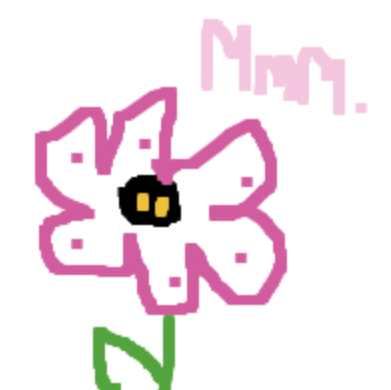
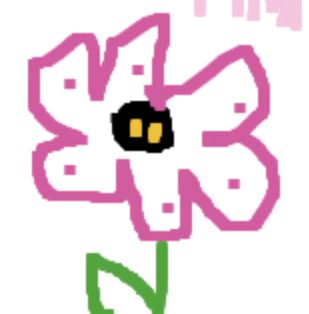
skhud

diff --git a/src/routes/+page.svelte b/src/routes/+page.svelte
@@ -1,6 +1,6 @@
 <div>
     <h1>
-        <q style='font-size: 3rem;'>Ultimately, it is the desire, not the desired, that we love.</q>
+        <q style='font-size: 2rem;'>Ultimately, it is the desire, not the desired, that we love.</q>
     </h1>
     <p>Friedrich Nietzsche</p>
     <form action="/writing">
@@ -9,28 +9,28 @@
 </div>
 <hr style='border: none;'>
 <div style='text-align: center;'>
-    <img src='img/teton_river.jpg' style='height: 12rem;' class='rotate' alt='teton river'>
-    <img src='img/first_concert.png' style='height: 12rem;' class='rotate' alt='first concert'>
-    <img src='img/nature.jpeg' style='height: 12rem;' class='rotate' alt='nature'>
-    <img src='img/childhood_spirit.jpg' style='height: 12rem;' class='rotate' alt='childhood spirit'>
+    <img src='img/first_concert.png' style='height: 12rem;' class='rotate' alt='first concert, grade 5'>
+    <img src='img/mmm.png' style='height: 12rem;' class='rotate' alt='pink flower'>            
 </div>
 <br>
 <div>
     <h2>Who is Amanda Ernar?</h2>
-    <p>Ernar is an author, wordsmith, musician, and a self-proclaimed artist. She has self-published two children's books as of 2023.</p>
+    <p>Ernar is a writer that has self-published two books as of 2023. She also practices Brazilian Jiu-Jitsu. She likes telling people she has good taste in everything.</p>
     <ul>
-        <p>Other random accomplishments:</p>
+        <p>Other accomplishments:</p>
         <li>
-            &rarr; 2018 Los Angeles County Spelling Bee Finalist
+            &rarr; Played 2nd clarinet for the 2023 NafME All-Northwest Band
+        </li>
+        <li>
+            &rarr; "Imagination Begins With You..." Writing competition finalist
+        </li>
+        <li>
+            &rarr; 2018 Los Angeles County Regional Spelling Bee Finalist
         </li>
         <li>&rarr; Beta reader for <a href='https://www.goodreads.com/en/book/show/62210574'>Nightshade Academy</a></li>    
         <li>
             &rarr; 3rd place at 1st Annual Ririe Rumble
         </li>
-        <li>
-            &rarr; Member of 2023 NafME All-Northwest Honor Ensemble
-        </li>
-        
     </ul>
 </div>
 <div>

diff --git a/src/routes/+error.svelte b/src/routes/+error.svelte
@@ -5,4 +5,3 @@
 <h1>{$page.status}: {$page.error.message}</h1>
 <a href='/'>Return to home</a>
 <hr style='border: none;'>
-<img src='img/hegel.jpeg' style='height: 500px;' alt='hegel'>

diff --git a/src/routes/writing/jasmine.md b/src/routes/writing/jasmine.md
@@ -4,70 +4,81 @@ date: 2/28/23
 
 ---
 
-“It’s always cruel, when someone you love becomes not but a memory,” whispers the skinny, gray-haired woman sitting by me. She’s talking to her husband, male friend, something of the sort. I’m blearily picking up fragments of their conversation. She’s wearing an expensive, ruddy cocktail dress, I notice, reminding myself of my burning hatred for jazz.
+I’ve always hated jazz.
 
-I happen to own the jazz bar we’re in, situated in the dead of Chicago, several blocks down from the pier. It isn’t well-known or anything. Sleepless and bored, I walk in at around midnight. Something new seems to transpire there each evening.
+I happen to own the jazz bar we’re sitting in. It’s situated in the dead of Chicago, several blocks down from the pier. Up for a couple aimless conversations, I wander in at around midnight.
 
-My head hangs over a pallid countertop as headache-inducing lights flash in the background. I realize it’s getting late, gazing sleepily out the only window in the room. There aren’t any stars tonight, just clouds. Exhaust weaving the city and the sky together.
+The pianist up front is a skinny, long-fingered man whose head sways as his bony hands batter the piano. The audience seems to be enjoying it. I clench my jaw as the music shifts dizzyingly from time signature to time signature, blotching the bar’s ambiance with awkward notes and chords. Afterward, his bow is followed by a round of eager, rattling applause. I remind myself that it’s alright for people to have preferences in music. But in all honesty, I hate everyone that’s ever performed here—and what I do for a living.
 
-The pianist up front is a skinny, long-fingered man battering the piano with his hands, his head bobbing with the inept music. The audience seems to be enjoying it. Afterward, his bow is followed by a round of eager, rattling applause.
+My head hangs over a pallid tabletop as headache-inducing lights flash in the background. I realize it’s getting late, gazing out the only window in the room. There aren’t any stars tonight, just clouds. Exhaust weaving the city and the sky together.
 
-My eyes shut as I try to remember a time before I joined my family in Chicago, back when I was studying to become a world-renowned piano soloist, performing the works of Scriabin and Chopin at concert halls jeweling Europe. Australia. Asia.
+I try to remember a time before I joined my family in Chicago, back when I was studying to become a soloist, dreaming of performing Scriabin and Chopin at concert halls throughout Europe and Asia. I wanted to make something of myself then. I had something to prove.
 
-Of course, as do countless other dreams, everything fell apart.
+It was stupid, really. As do countless other dreams, it all eventually fell apart.
 
-I let my thoughts drift and marinate in the scenery—the queer murmuring of voices, the clinking of glasses, the obnoxious, airy trills and peeps of a clarinet.
+I close my eyes. The scenery quickly engulfs my thoughts—the ghostly clattering of voices, the clinking of glasses, the obnoxious trills and peeps of a clarinet.
 
 -
 
 Suddenly I find I’m in New York, a city that never seems to stop and catch its breath. How old am I—sixteen? Seventeen?
 
-The streets are noisy as per usual. A siren wails somewhere in the distance. The dizzying structures surrounding me are snake-scale beneath the dying sunlight. The sky bleeds a deep violet, the color of a bruise. Strangers don’t seem to take much notice as I shove past. My designer shoes beat against the greasy streets and my necktie flails behind me as I run. I’m leaving my grief counseling session in a hurry, realizing I have to rehearse for an upcoming performance.
+The streets are turbulent as per usual. The sky bleeds a deep violet, the color of a bruise. A siren wails somewhere yonder. The illusion-like structures surrounding me are snake-scale beneath the dying sunlight.
 
-I round a filthy street corner and stumble into a hallway saturated with an odd, expensive scent. There are no photographs or adornments on the walls. Weber Conservatory, reads the letters painted on the textured walls in an ugly bubble font. It’s six in the evening, and I haven’t eaten since yesterday. My stomach burns.
+Strangers don’t seem to take much notice as I shove past. My designer shoes snap against the oily streets and my necktie flails behind me as I run. I’m leaving my grief counseling session in a hurry, realizing I have to rehearse for an upcoming performance.
 
-I can hear Beethoven’s *Archduke* murmuring behind the doors ahead, though it sounds funny; the pianist happens to be a little behind schedule.
+I’m rounding a filthy street corner, stumbling into a hallway saturated with a strange musky scent. Weber Conservatory, reads the letters painted on the textured walls in an ugly bubble font. It’s six in the evening, and I haven’t eaten since yesterday—my stomach burns.
 
-A girl stands at the auditorium doors, checking the time on her watch. She’s wearing plain, expensive clothing, like a kid dressing to impress the grown-ups. Her fingernails are unkempt from biting. Her makeup looks like it’s been done by a child. Though she’s tall and pale, her loveliness drifting to the other end of the hall. She lifts her chin to face me, beaming. 
+I can hear Beethoven’s Archduke murmuring behind the doors ahead, though it sounds funny; the pianist isn’t there and happens to be a little behind schedule.
+
+A girl stands to block the auditorium doors, checking the time on her watch. She’s wearing plain, expensive clothing, like a kid dressing to impress the grown-ups. Her fingernails are unkempt from biting. Her makeup looks like it’s been done by a child. Though she’s tall and pale, her loveliness drifting to the other end of the hall. She lifts her chin to meet my gaze, beaming. 
 
 “Late for rehearsal?” She has a sleepy, raspy voice.
 
 “Well, yeah, so if you could—”
 
-“We should leave.”
-
-There seems to be something wrong with her. “What’re you talking about? I can’t just leave.”
+“We should leave,” she interrupts, making me falter. There seems to be something wrong with her. “What are you talking about? I can’t just leave.”
 
 “And we were both thinking of shooting the other guy a text and leaving just now. He probably already thinks we aren’t coming.”
 
-I think about the consequences of leaving for a moment.
+I rethink the consequences of leaving for a moment.
 
 -
 
-We half-wittedly leave the building and have a cab take us to the beach. I don’t know why I listen. “Fire Island,” she says to the driver.
+Senseless, we leave the building and have a cab take us to the beach. I don’t know why I listen.
 
-When we arrive, there seems to be nothing but us and the cold, empty night, our exposed skin burning with the dry tang of the Atlantic air. The lamplights set our faces aglow with scarlet and turn my smile a quaint, porcelain shade of amber.
+“Fire Island,” she says to the driver.
 
-We sit down, laughing under our breaths for no reason. We speak about our lives before Weber, embarrassing moments from our childhood, staring into the sky—a creamy cobalt. The ocean lurks ahead, various artificial lights misting its waters, its waves smashing against the searocks.
+-
 
-My hand gathers a fistful of sand. “Would you call yourself a believer in fate?” She asks. Her voice buzzes and repeats in my head, making the stars blink and buildings behind us tremble. I close my eyes, trying to think of an answer.
+We eventually arrive, and there seems to be nothing but us and the cold, empty night, our exposed skin burning with the dry tang of the Atlantic air. The lamplights set our faces aglow with scarlet and turn my smile a quaint, porcelain shade of amber.
 
-“No, not really,” I reply. “I believe in coincidences, though.”
+We sit down, laughing under our breaths for no reason. We awkwardly clamor about our lives before Weber, embarrassing moments from our childhood, staring into the sky—a creamy cobalt. The ocean lurks ahead, various artificial lights misting its waters, its waves smashing against the black searocks.
 
-She tilts her head to the side, grinning. “What do you mean?”
+My hand gathers a fistful of sand. “Would you call yourself a believer in fate?” She asks. Her voice buzzes and repeats in my head, making the stars blink and buildings behind us tremble. I scrunch my nose, trying to think of an answer.
 
-There’s something strange about her, as haunting as she already is. I remind myself I don’t even know her name. “Tell me your name first,” I swallow, watching her features shift beneath the lights. It’s like she’s a mirage, a memory.
+“No,” I reply. “I believe in coincidences, though.”
+
+She tilts her head to the side. “What do you mean?”
+
+There’s something strange about her, as haunting as she already is. I remind myself I don’t even know her name. “Tell me your name first,” I swallow, watching her features shift beneath the lights. It’s like she’s a mirage—a memory.
 
 “Jasmine.”
 
-Jasmine. “Funny. I used to know someone with that name,” I remember. “Well, I just don’t think it’s right to assume everything’s been preordained by god or something. It makes life a lot more bearable, to think that it’s all spontaneous and doesn’t happen for some sick reason.” A sheepish smile creeps across my face. “I don’t know. What about you?”
+Jasmine. “Funny. I used to know someone with that name,” I remember. “Well, I just don’t think it’s right to assume everything’s been preordained by the almighty. It makes life a lot more bearable, to think that it’s all spontaneous and doesn’t happen for some sick reason.” A sheepish smile creeps across my face. I turn away.
+
+“I don’t know. What about you?”
 
 I don’t get a response.
 
-The night feels a little emptier. I relax my hand, and the sand from within comes spilling out. Perhaps I shouldn’t have left that counseling session on such short notice, I think with a sigh. I can’t help but wonder what could have been if Jasmine were really sitting beside me, laughing at the constellations spinning with contempt above our heads.
+The night feels a little emptier. I look back over my shoulder and she isn’t there. My chest sinks.
+
+I relax my hand and the sand from within comes spilling out. Avoiding that counseling session had been a bad idea. 
+
+I can’t help but wonder what could have been if she were really beside me, laughing at the stars spinning with contempt above our heads.
 
 -
 
-My eyes close, and I can hear us performing Beethoven’s *Archduke*. It’s almost mournful behind its grinning chords. It sings of something strange. Of joy before the gloom of realization.
-The cool studio lights wane and quiver atop the piano’s scratched black surface. My fingers dance over the keys, slowing and quickening at the glances of the others. I look over my shoulder and smile at her. Jasmine smiles back.
+My eyes close, and I can hear us performing Beethoven’s Archduke. It’s almost mournful behind its grinning chords. It hums with something strange. Of joy before the gloom of realization.
+
+The cool studio lights wane and quiver atop the piano’s scratched black surface. My fingers dance over the keys, slowing and quickening with her every glance. I look over my shoulder and smile at her. Jasmine smiles back.
 

diff --git a/src/routes/writing/dylan.md b/src/routes/writing/dylan.md
@@ -4,29 +4,15 @@ date: 2/4/2022
 
 ---
 
-The day was nearing its end. He watched as the sun’s scarlet rays brushed over the boundless pasture and blanketed the sky, glancing up at the fleeting scarlet above, which was dappled with stars and splashed with various blushing hues, inhaling the sweet scent of wild honeysuckles and white lilies. He came to visit this relatively well-formed part of town every other week, when given the time. “Beautiful day,” he grumbled to himself, pulling in a breath from his hazing cigar. He glanced at his watch and mumbled a curse, for it was almost four, and he had to be back at camp by then.
+The day was nearing its end. He watched as the sun’s scarlet rays touched over the boundless pasture and blanketed the fleeting scarlet above---dappled with stars and splashed with various blushing hues, inhaling the sweet scent of wildflowers. He came to visit this relatively well-formed part of town every other week, when given the time. 
 
-Dylan was only sixteen, which further proved how desperate the nation was for men. And women.
+“Beautiful day,” he grumbled, drawing in a breath from his cigar. He glanced at his watch and mumbled a curse, for it was almost four, and he had to be back at camp by then.
 
-It had been several years since he began fighting in the fifty years' war, and those years had felt like an eternity to Dylan. He had spent his first hundred nights as a soldier counting the stars and reminiscing about his life before the draft. He had something to live for back then: his past, which now seemed vague and was slowly chipping away from his memory.
+It had been several years since he began fighting in the fifty years' war, and those years had felt like an eternity to Dylan. He had spent his first hundred nights as a soldier counting the stars and reminiscing about his life before the draft. He had something to live for back then...or did he? It was whatever had occurred in the past, which now seemed vague and was slowly beginning to chip away from his memory.
 
 Dylan used the spare time he had to smoke. Out in the wilderness, somewhere far and distant from whichever fort the others were occupying, in case a brushfire was to start.
 
 On the battlefield, it seemed everyone's deaths were petty and absurd. They died like dazed bugs being crushed under someone's foot, as they were quickly shot to death, without a chance to even think. Dylan knew the battle scene all too well. He pressed his cigar into his lips, watching the distant sparks of soldiers' hazing campfires from afar.
 
 It was as if everyone's livelihoods and deaths were mere leaves floating down a vast river. But where would that river lead? Would it lead to them winning the war?
-
-"Finally found you, birthday boy." Dylan looked up to see the cheery face of his friend, Chris, hovering above him. Dylan's features tensed. Right, August happened to be coming to an end. Yet, partying with everyone else seemed to be among the last things he wanted to do. The others were probably drunk and woozy. Dylan knew they were celebrating the successful capture of Fort Winde after an embarrassing three months' siege. "C'mon, Ree, it's not like that Alis Hovey's gonna eat you," Chris jeered.
-
-Dylan pressed his lips together. A few campfire stories and a couple of drinks wouldn't hurt, he supposed. Sighing, he stood and brushed himself off, leaving an imprint in the patch of the tall grain beneath him, and tossed his dead cig aside.
-
-Chris led him down a rugged flagstone path that led the pair down to Fort Winde, which was crowded to death with people. Everywhere Dylan looked, soldiers gambled, wrestled, and laughed in a ditzy haze of drunk lunacy. “I’ll be right back!” Chris leered, gesturing a small apology and walking off. Dylan sat down on a plump duffel bag and poured himself a glass of rye. He hated this place. He glanced around, trying to spot Chris somewhere amidst the mass of people before him, but that idiot was nowhere to be found. All the commotion must have sent him rushing off in a whirl of affable remarks and vivacious flattery. Dylan cringed.
-
-A group of officials sat down next to him. "There's this woman back in West Eden," one began, drumming his fingers on the rim of his glass, "she's into reading old, musty, coffee-stained *books* that aren't even good. Real pretty, though." He took a generous sip from his glass and drew a box of cigars from his back pocket while the others started to murmur amongst themselves about their own, equally-miserable lives. Dylan pretended not to notice. The man who sat beside him cleared his throat and leaned back in his seat. “Like hell I’ll live to see the end of this war,” he sneered. He glanced over his shoulder anxiously. Dylan found himself hoping no one heard him.
-
-"And what would your name be, kid?" A man who appeared to belong to their circle asked, biting down on the tip of his cigar. Dylan looked up at him and laughed.
-
-"Don't got one, sir." He grinned sheepishly. The man pulled a breath from his cigar and exhaled deeply. "Sure you do. What do the others call you?" He pressed on. 
-
-"They call me Dylan," he shrugged. "Mind lending me one of those?"
 

diff --git a/src/routes/writing/affliction.md b/src/routes/writing/affliction.md
@@ -8,21 +8,21 @@ I tore my medicine cabinet open and grabbed a bottle of tiny green pills. I shoo
 
 I grabbed a fistful of the flimsy nightgown I was wearing and squeezed it tightly. With my other hand, I stuffed a month’s worth of sleeping pills down my throat and instantly collapsed, a few of them escaping their fate of being swallowed and rattling with freedom as they fell to the floor. My eyes then fluttered shut, leaving my medicine cabinet door open and empty pill bottle left cold on the counter.
 
-It wasn’t long until I awoke from my slumber to a lady dressed in white standing there, our faces only inches apart. Was I in heaven? No. God wasn’t real, of course. “A human,” the lady mumbled. I exhaled deeply and stared into her captivatingly red eyes.
+It wasn’t long until I awoke from my slumber to a lady dressed in white standing there, our faces inches apart. Was I in heaven? No. God wasn’t real, of course.
 
-“Christ,” I mouthed. Her eyelashes were abnormally long and laced with white, and her hair was the color of ash. Her gleaming eyes contrasted against her soft appearance and her silhouette was slender and fragile. It was as if she were a snowflake, vanishing to the touch.
+“Christ,” I mouthed. Her eyelashes were long and laced with white, and her hair was the color of ash. Her gleaming eyes contrasted against her soft appearance. Her silhouette was slender and fragile. It was like she was a snowflake, vanishing to the touch.
 
-I studied my surroundings and came to the conclusion that I was probably dreaming… those sleeping pills really must’ve done it for me. I lifted my hand off the ground and felt a grainy substance pass through its gaps… sand. I attempted to drive myself backward, away from the bizarre woman, but something hard behind me wasn’t letting that happen. I gaped and turned around to find a rock towering over my body, rugged and black.
+I studied my surroundings and came to the conclusion that I was probably dreaming. I lifted my hand off the ground and felt a grainy substance pass through its gaps… sand. I attempted to drive myself backward, away from the bizarre woman, but something hard behind me wasn’t letting that happen. I gaped and turned around to find a rock towering over my body, rugged and black.
 
-It then came to me that this wasn’t a dream or hallucination of any sort. Everything around here felt so…  real. Every single feature of the realm I was in provided me with a genuine and loving comfort. The woman and I were sitting by some kind of dreamland seashore. Palm trees gently swayed in the distance, ashen waves crashed violently against the vast pillars of rock by the shore, and tufts of clouds floated dreamily in the milky blue sky. Where was I, exactly?
+It then came to me that this wasn’t a dream or hallucination of any sort. Everything around here felt very, very real. Every single feature of the realm I was in provided me with a genuine and loving comfort. The woman and I were sitting by some kind of seashore. Palm trees gently swayed in the distance, ashen waves crashed violently against the vast pillars of rock by the shore, and tufts of clouds floated dreamily in the milky blue sky. Where was I, exactly?
 
-“Welcome to Hell,” the lady stammered. Gushes of gentle wind brushed up against my skin and sent a chill down my spine. Her face seemed cold and distant as if something withered and shriveled up inside her. She looked old and tired, yet her face sparkled with youth. It was a confusing sight.
+“Welcome to Hell,” the lady stammered. Gushes of gentle wind brushed up against my skin and sent a chill down my spine. Her face seemed cold and distant as if something withered and shriveled up inside her. She looked old and tired, yet her face sparkled with youth.
 
 I looked around and shook my head. “This doesn’t look like Hell,” I sneered. In all seriousness, everything around here had its own sort of beauty. This land felt free and youthful. If anything, this was all I ever wanted.
 
-The lady smiled wistfully and looked down at the sandy floor, her flaky eyelashes fluttering blissfully. “There’s nothing to do here,” she told me, “miles and miles of nothing.”
+“There’s nothing to do here,” she told me, “miles and miles of nothing.”
 
-“It’s pretty though,” I mumbled, peering at the crashing waves behind her with content. I wiggled my toes contemptuously.
+“It’s pretty though,” I mumbled, peering at the crashing waves behind her with content.
 
 She stared at our surroundings and shrugged. “I guess so,” she sighed, her voice hollow.
 

diff --git a/src/routes/writing/alison.md b/src/routes/writing/alison.md
@@ -1,6 +1,6 @@
 ---
 title: Alison
-date: 9/30/21
+date: 9/30/20
 
 ---
 
@@ -37,21 +37,7 @@ Her rumination was interrupted by the unpleasant cacophony of arguing between Mr
 
 Alison Baines clenched her jaw and put her earbuds back in, wishing she never even bothered to listen. Her mind was once again flooded with music. She closed her eyes once more, failing to notice her door creaking open.
 
-"Alison~," Mrs. Baines sang, her pallid teeth illuminating the dim bedroom. Alison jerked her earbuds out and cursed under her breath as her mother waltzed into her chambers. "Is dinner ready?" She asked, watching her mother’s erratic gaze dart around the room. It then came to Alison that it was not a great time for visitors. "I hope you aren't hiding anything," her mother crooned, tearing her dresser open.
-
-Alison pursed her lips together and said nothing as her mom rummaged through her belongings and tossed pieces of clothing onto the carpet.
-
-"I'm planning on inviting Jessica over for dinner—like, tonight." Mom put down the I ❤ NY sweatshirt she held to meet Alison's gaze, who decided she was no longer in the mood for visitors. “No.”
-
-Her mother frowned. "Come on, Al," she urged, grabbing Alison’s shoulder, "you can play the piano for her. She's a music teacher!" Alison let out a quivering breath, trembling at the thought of reciting Bach under a pair of judgemental eyes. “No.”
-
-Mrs. Baines opened her mouth to argue but was interrupted by the kitchen timer going off. "I'll be back!" She smiled as she whisked herself out of the bedroom. The door was left ajar.
-
-Alison sighed as she got up out of her chair to close it, taking note of the muffled squeals of utter, unadulterated joy coming from outside. She took a seat at her desk, wishing that she were once again seven years old, running around frivolously under the blazing sun.
-
-She noticed her deft fingers begin fidgeting with the tangled frenzy of headphone wire dangling from her neck, another heavy breath escaping her lips. Alison closed her eyes and tried to think of her future, which came to her in a whirl of various images. Of her attending fan events, composing film music, painting on broad canvases, and doing all sorts of other pretentious activities.
-
-Her lips twisted into a frown. She had no idea where she was headed in life. She knew the last thing she wanted was to end up like her father— who worked a nine-to-five job slouching in front of a computer screen, his marriage failing and his eldest daughter writhing in a depressive state.
+She had no idea where she was headed in life. She knew the last thing she wanted was to end up like her father— who worked a nine-to-five job slouching in front of a computer screen, his marriage failing and his eldest daughter writhing in a depressive state.
 
 It seemed to her that her lifeless soul was headed in the same direction. Either that, or she would die a very unfortunate death before she became an adult. 
 

diff --git a/src/routes/writing/marie.md b/src/routes/writing/marie.md
@@ -1,6 +1,6 @@
 ---
-title: The Lonely Woman's Tale
-date: 9/1/21
+title: Marie
+date: 9/1/20
 
 ---
 
@@ -46,21 +46,4 @@ I was supposed to be at the abandoned shopping mall by the children’s hospital
 
 The studio was small and gave off an overbearing scent of citrus and honey. A jumbo-sized bag of cough drops lay ajar on the kitchen counter.
 
-I snatched the keys to my Prius off the cold kitchen countertop, put on the coat hanging from my wooden chair, and slid out the door. Room number 67, I repeated to myself breathlessly as I shut it,  studying the door’s angled frame and gilt finish. I moved in a couple days ago and still didn’t know which room I lived in. It was embarrassing, actually.
-
-I worked my way down the spiraling staircase by floor three’s broken vending machine, finally stumbling upon the dry courtyard and then the parking lot. I found my car—parked between a Mercedes and a rusty BMW—and brought myself inside.
-
-“I'm actually going to kill myself.” I let someone else drive the other night, and the seat was bent all the way forward.
-
-I suddenly realized I wasn’t a great driver. I managed to pull myself out of the parking lot at least a few minutes after I started the engine. The act of driving my musty Pruis was one I actively tried to avoid, and so was the act of looking out the window and into the filthy driveway. As a matter of fact, I failed my driving test six times before the instructor let me pass.
-
-I couldn't help but notice the queer pine trees, literal inches from my nose as I pulled out of the building. Their long stalks branched out into the sky and spouted nasty yellow leaves out of their fat mantles.
-
-Then, the thought drew the breath out of me: I forgot to lock the door. But I kept speeding along Wyandotte Avenue, because who the hell would bother with room number 67?
-
-—
-
-It took two minutes for me to crash.
-
-Fat, air-filled balloons bursted out from the space in front of me, choking off breath. “Motherfucker,” I cursed under my breath, pushing the white sac out of my face. 
-
+I snatched the keys to my Prius off the cold kitchen countertop, put on the coat hanging from my wooden chair, and slid out the door. Room number 67, I repeated to myself breathlessly as I shut it.

diff --git a/src/routes/writing/why_we_write_at_a_fifth_grade_level.md b/src/routes/writing/why_we_write_at_a_fifth_grade_level.md
@@ -4,8 +4,6 @@ date: 1/23/23
 
 ---
 
-Ever skimmed over a swathe of text, your mind subconsciously giving definitions to the plethora of words you don't know? This has happened to all of us at least once before. It's hard for a piece of writing to sink in and truly connect with your reader if they don't understand what it means to begin with. I've seen writers think they're smart when they use big words, wacky jargons, and average ten words per sentence when their readers don't understand jack.
+Ever skimmed over a swathe of text, your mind subconsciously giving definitions to the plethora of words you don't know? This has happened to all of us at least once before. It's hard for a piece of writing to sink in and truly connect with your reader if they don't understand what it means to begin with. I've seen writers think they're smart when they use big words, wacky jargons, and average ten words per sentence when their readers don't understand anything.
 
 Keep things simple.
-
-Unless you're writing an academic paper of some sort.
